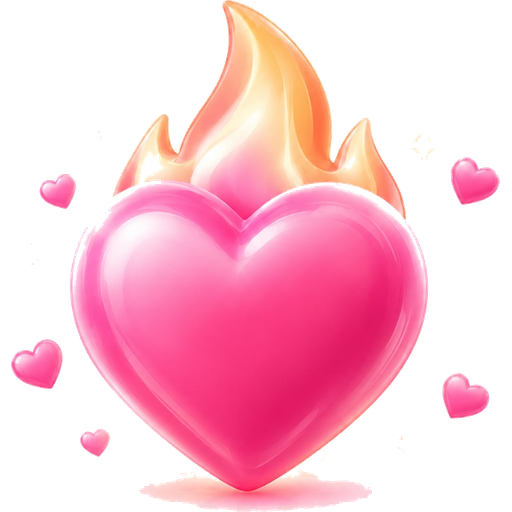
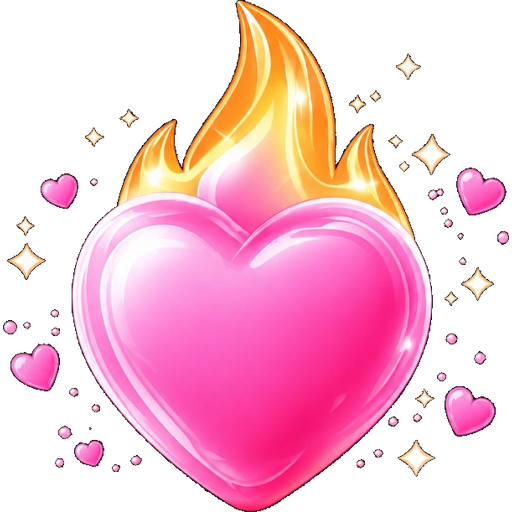
polish: add flaming heart illustration to home hero
Place the transparent hero heart asset beside the home hero copy and tune
its size for balanced layout on mobile.

diff --git a/src/index.css b/src/index.css
@@ -212,6 +212,17 @@ body,
     background: linear-gradient(90deg, #ffd36e 0%, #ff9aae 60%, #ff5fa2 100%);
     box-shadow: none;
   }
+  .lq-home-decor-img--hero {
+    right: 0.35rem;
+    top: 50%;
+    width: 40%;
+    max-width: 9rem;
+    height: auto;
+    transform: translateY(-44%);
+    object-fit: contain;
+    object-position: center;
+    filter: drop-shadow(0 8px 18px rgba(157, 23, 77, 0.22));
+  }
   .lq-home-decor-img--card {
     position: absolute;
     left: 50%;

diff --git a/src/coupleRpg/components/HomeHeroLoveCard.tsx b/src/coupleRpg/components/HomeHeroLoveCard.tsx
@@ -7,6 +7,7 @@ import { formatHomeCoupleHeaderLine } from '../lib/importantDates';
 import { WEEKLY_RECAP_UNLOCK_HINT } from '../lib/coupleWeeklyRecap';
 import { useToast } from '../../context/ToastContext';
 import { SoftIconBadge } from './ui/SoftIconBadge';
+import { HOME_QUEST_HERO_ILLUSTRATION } from './ui/homeQuestIcons';
 
 /** 首頁 Hero：品牌主視覺（僅 UI） */
 export function HomeHeroLoveCard() {
@@ -68,6 +69,15 @@ export function HomeHeroLoveCard() {
         <span className="lq-home-hero-spark lq-home-hero-spark--2" />
         <span className="lq-home-hero-spark lq-home-hero-spark--3" />
       </div>
+
+      <img
+        src={HOME_QUEST_HERO_ILLUSTRATION}
+        alt=""
+        aria-hidden
+        decoding="async"
+        draggable={false}
+        className="lq-home-decor-img lq-home-decor-img--hero pointer-events-none absolute z-[5] select-none"
+      />
 
       <div className="relative z-10 max-w-[56%]">
         {auth.user ? (